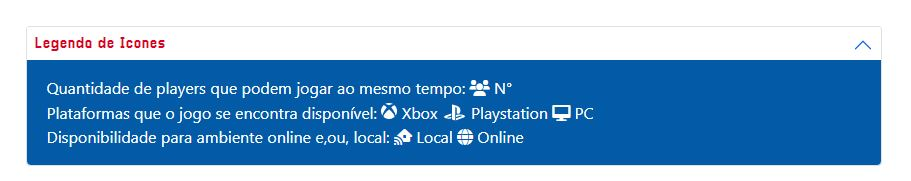
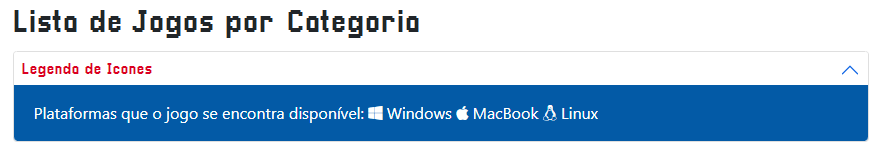
ajustando documentação

diff --git a/docs/development.md b/docs/development.md
@@ -2,6 +2,24 @@
 
 Nesta seção estão descritos os artefatos e estruturas de dados criados para atender aos requisitos previstos nas <a href="./especification.md">Especificações do Projeto</a>, bem como as instruções para acesso e verificação da implementação. As tecnologias utilizadas se baseiam nas linguagens HTML, CSS e JavaScript.
 
+## Página Inicial
+
+Aqui onde nosso site se inicia, uma tela repleta de funções que faz ligação com as demais do site. No início da página será disponibilizado um carrossel dos jogos mais buscados no site.
+
+![carrosel](img/entrega03/carrossel.JPG)
+
+Logo em seguida terá um legenda com informações sobre qual plataforma os jogos se encontram disponíveis.
+
+![legenda](img/entrega03/legenda.JPG)
+
+E por fim a exibição dos jogos em formato de cards com alguma seleções de gêneros pré definidos.
+
+![cards](img/entrega03/cards.JPG)
+
+Caso prefira buscar por outras modalidades basta ir no botão "Filtro de Jogos" que se encontra na nosso Menu
+
+<br/>
+
 ## Filtro de Jogos
 
 ### Requisitos
@@ -94,9 +112,13 @@ Ao final depois de inserir seus dados, para confirmar cadastro no Pra Jogar Junt
 - RF-007 - Permitir o usuário a favoritar jogos
 - RF-009 - Permitir usuário avaliar um jogo
 
-Para atender aos requisitos RF-007 e RF-009 foi desenvolvido dois botões disponiveis no card do jogo.
+Para atender aos requisitos RF-007 foi desenvolvido nos cards dos jogos um botão com símbolo de coração.
 
+![favoritos](img/entrega03/favoritar.JPG)
 
+Os jogos favoritados ficará disponível no perfil do usuário.
+
+`Falta ainda a parte de avaliar o jogo`
 
 <br/>
 
@@ -108,12 +130,10 @@ Para atender aos requisitos RF-007 e RF-009 foi desenvolvido dois botões dispon
 
 Para atender ao requisito foi desenvolvido a página de Tela de Perfil.
 
-Ao clicar no botão de perfil no menu disponivel após o login aparecerá a tela de perfil.
+Ao clicar no botão onde estiver escrito seu Nome/NickName no menu disponivel após o login aparecerá a tela de perfil.
 
-> adicionar imagem da tela de perfil.
+![perfil](img/entrega03/telaPerfil.JPG)
 
 Nela o usuário podera visualizar a lista de jogos favoritadas e comentados, além de poder editar informações como o ícone de perfil, nome/nickname e senha.
-
-São do tipo `c`.
 
 <br/>
